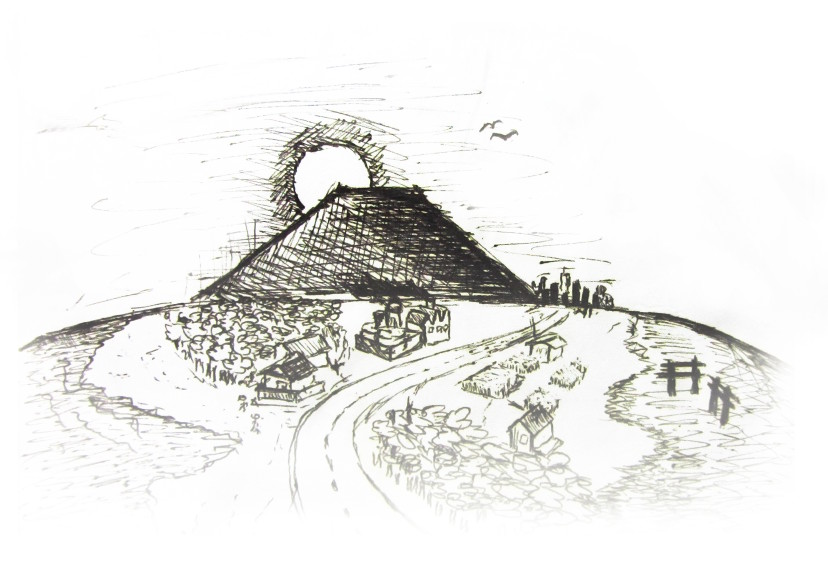
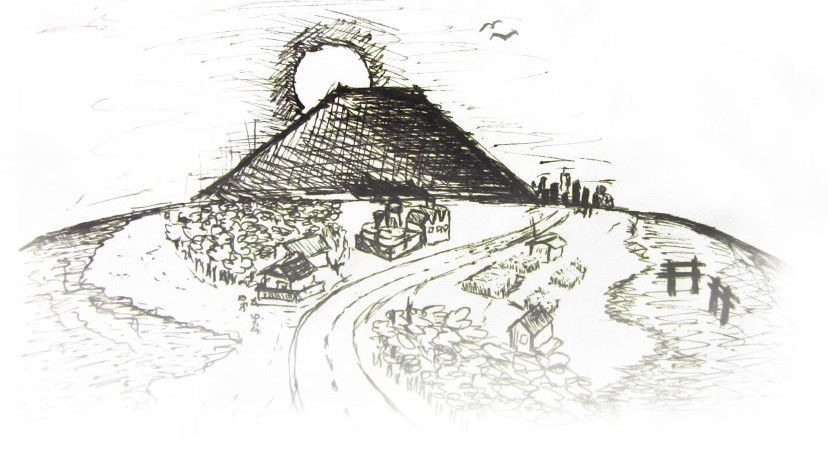
css: Align cover images to the top #content, and crop instead.

diff --git a/src/css/site.css b/src/css/site.css
@@ -18,7 +18,7 @@ body {
     margin: auto;
     max-width: 1000px;
     background-repeat: no-repeat;
-    background-position: center -100px;
+    background-position: center top;
 }
 
 #content {
